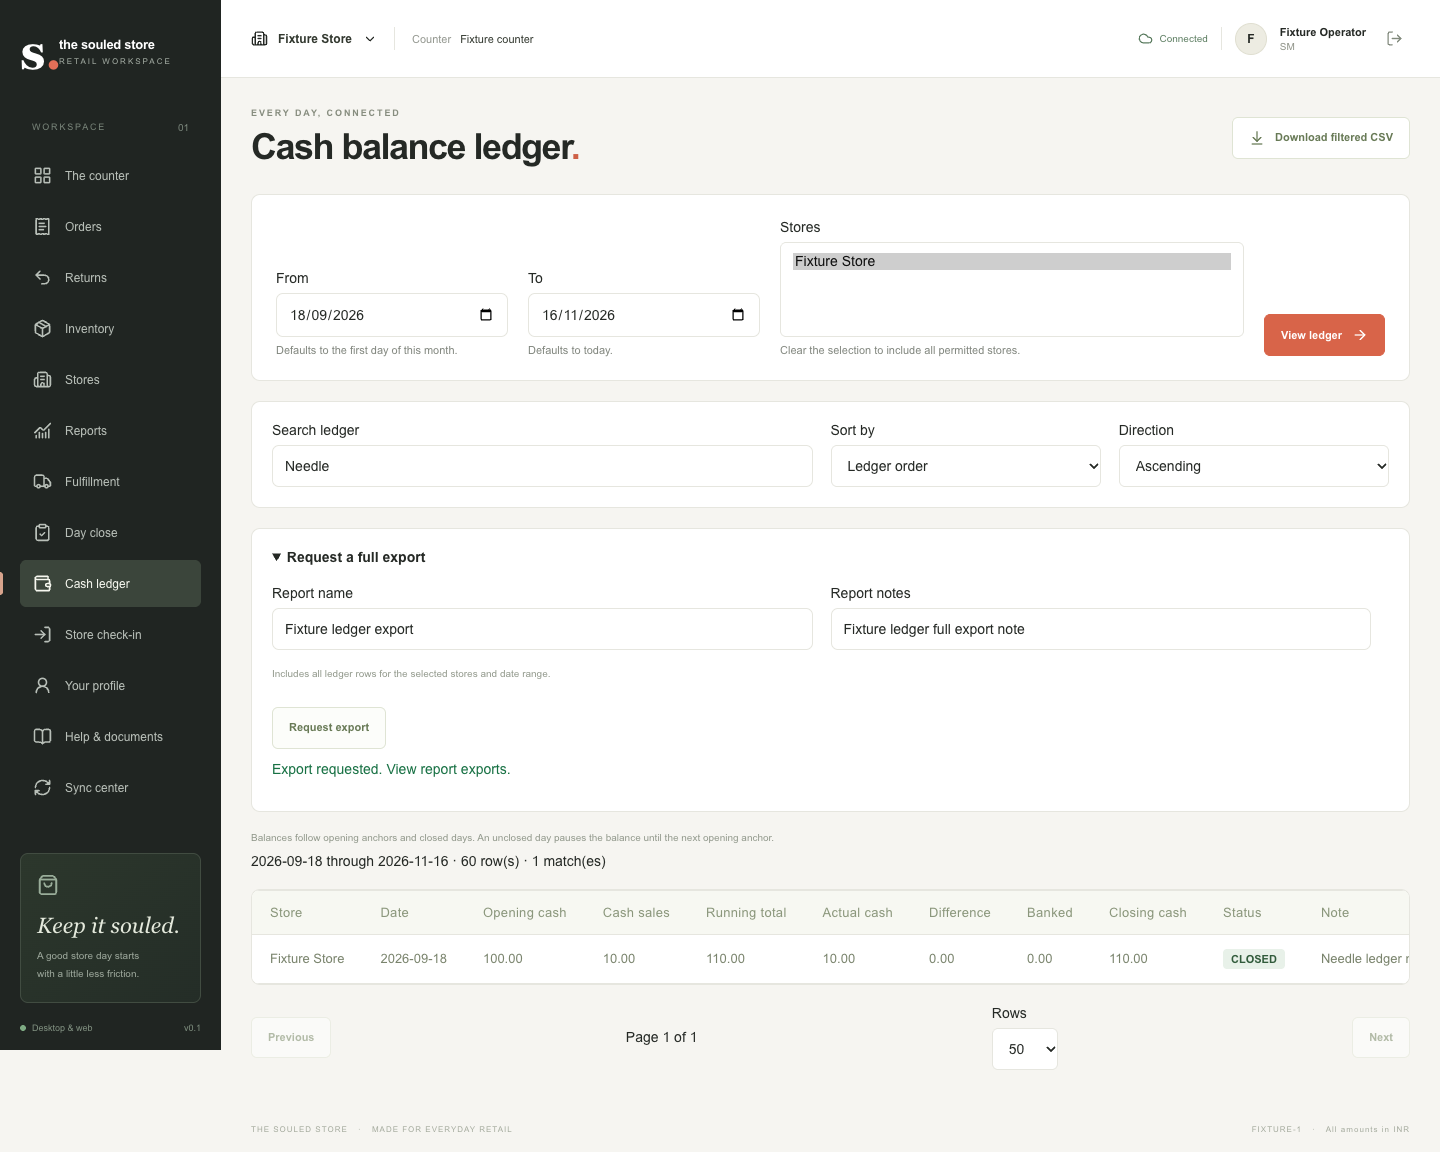
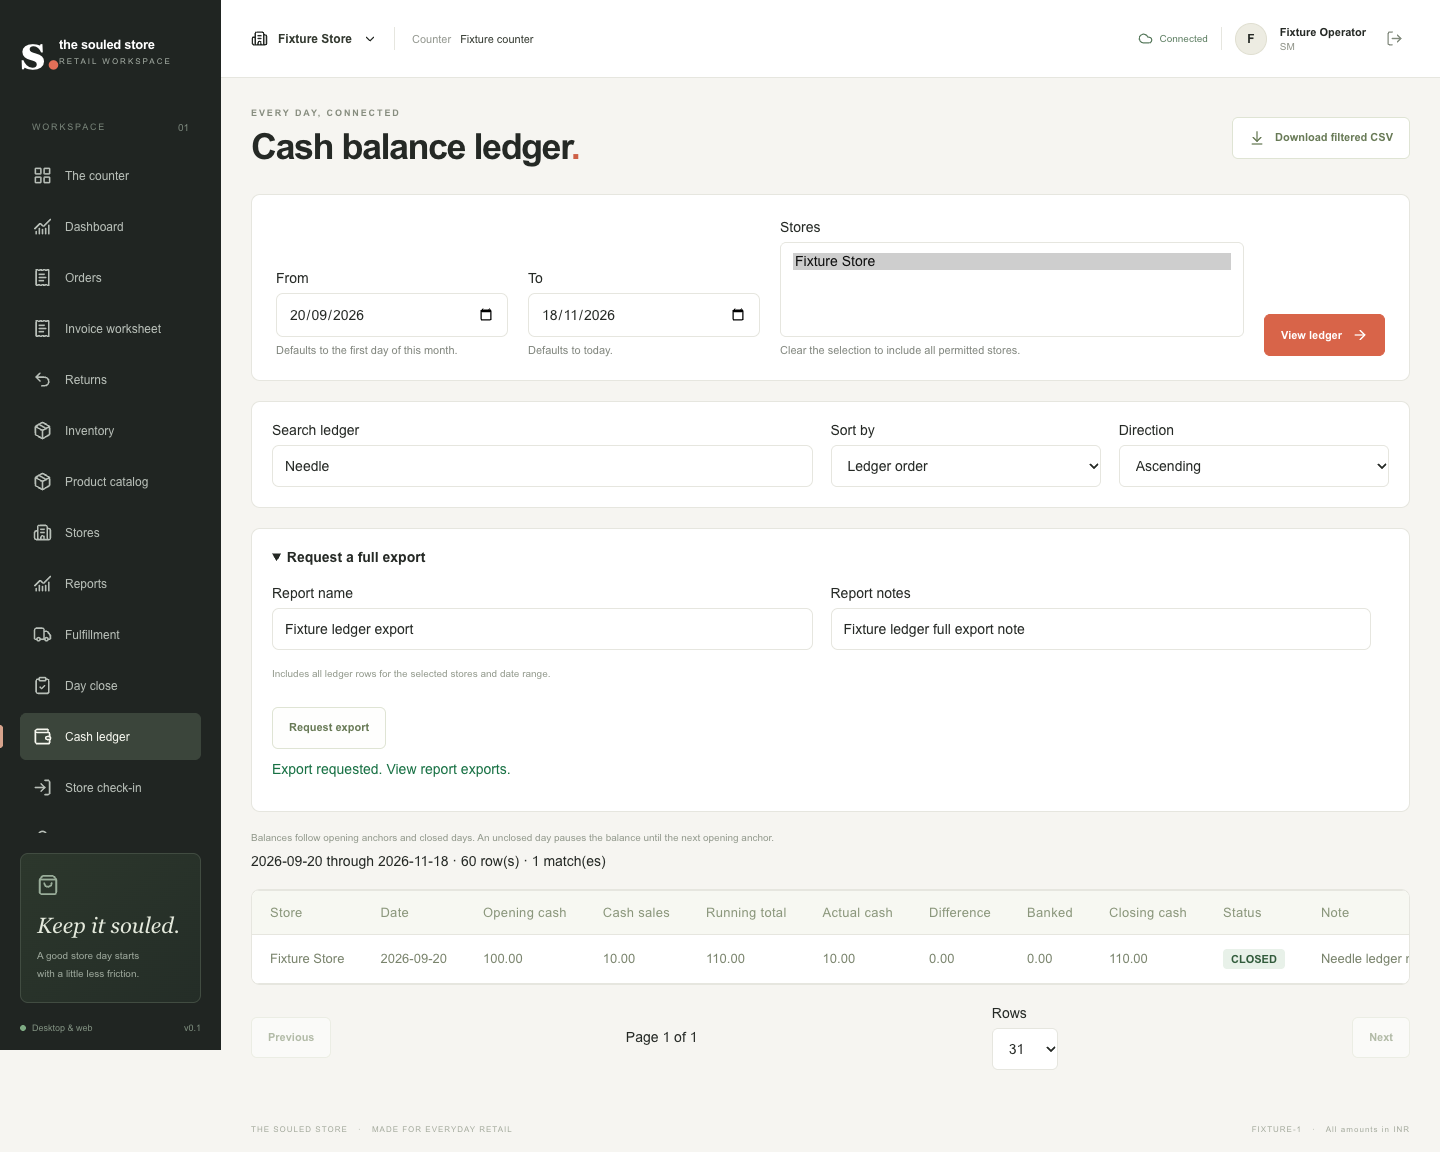
Validate integrated report column and financial history controls

diff --git a/backend/parity/export-history-controls.md b/backend/parity/export-history-controls.md
@@ -13,3 +13,5 @@ Close-history row choices already matched the original. Its local current-page C
 Implementation checkpoint only: no tests, typecheck, lint, build or broad gate were run after these final controls, per the implementation-first work order. Existing browser assertions were adjusted from the old 50/10 cash pages to source 31/29 over the same sixty-row fixture, retaining its checks. Final validation must exercise metadata column hiding/restoration/CSV, 500-row bindings and private actor boundaries, legacy archive period mapping, all page menus, separate close-history page/full files, and unchanged complete financial totals. External source/warehouse/S3 workflow acceptance is not certified by this code.
 
 Validation began on integrated `a9d76fe` using exact Node 24.22.3. A source NULL/empty period edge was corrected: supplied `period:null` and `period:''` remain NULL/empty instead of becoming the fallback label. The client still tolerates old responses omitting the optional field; the legacy warehouse reader requires the selected field and refuses malformed/omitted data. Focused evidence adds native recent-row preservation, legacy warehouse named500-row bindings and missing-field refusal, and loaded-page metadata CSV size/column/formula/zero-value cases. Nineteen backend checks (including thirteen native queue/metadata cases), eight frontend checks, both focused strict programs and changed-file ESLint pass. Browser baseline report six workflows and archive/ledger thirteen protocol checks pass separately; expanded final-control browser validation remains pending at this checkpoint. None of these checks certify deployed source/warehouse/storage acceptance.
+
+The expanded browser runner subsequently passed 21 UI/protocol checks with 38 mocked requests and no unexpected API calls/page errors. It checks 537-row metadata pagination at 10/500, visible-page CSV versus hidden fields, formula protection, File actions retained with every metadata column hidden, exact empty legacy period and disabled unauthorized legacy file, all source cash/close row menus, three-row close-page CSV versus the distinct 23-row full file, and actor-change refusal before local download. The six actual-component/backend-builder workflows additionally verify separate full/selected returned-order, flash and transaction artifacts, full actions still enabled with every display column hidden, the source flash full-export blank district quirk, and no repeated command after a lost reply. Both scripts use synthetic HTTP/warehouse/storage data; native/source query tests remain separate, and no deployment or source-workflow certification is added.

diff --git a/backend/parity/export-history.md b/backend/parity/export-history.md
@@ -16,4 +16,4 @@ Queries bind owner/date/search/limit/offset parameters and apply resource label 
 
 New exports use immutable store/user-type snapshots and current role/assignment/account checks. Legacy files lack verifiable scope, so downloads require current internal user type 1 and role 1. This closes source global file disclosure and denies stale principals and restricted franchise superadmins. Approved-prefix, traversal, format, bucket-privacy and content checks still apply. A warehouse row without its authoritative queue row is metadata only.
 
-Evidence includes bound warehouse routing/age/owner/search tests, missing-view and malformed-contract tests, and local MySQL checks of old pending work, archive eligibility, ownership, changed role/user type and legacy security corrections. `evidence/operational-reports/export-archive.json` and its screenshot record an isolated Chromium fixture with thirteen archive/cash-ledger UI/protocol checks and no real service calls. Live compatible-view reconciliation, SSO and production bucket checks remain deployment/acceptance requirements.
+Evidence includes bound warehouse routing/age/owner/search tests, missing-view and malformed-contract tests, and local MySQL checks of old pending work, archive eligibility, ownership, changed role/user type and legacy security corrections. `evidence/operational-reports/export-archive.json` and its screenshots record an isolated Chromium fixture with 21 export/cash-ledger/close-history UI/protocol checks and no real service calls. They include loaded-page metadata CSV/visibility/500-row paging, null/empty source period, all source page menus, distinct close-page/full files and changed-actor download refusal. Live compatible-view reconciliation, SSO and production bucket checks remain deployment/acceptance requirements.
